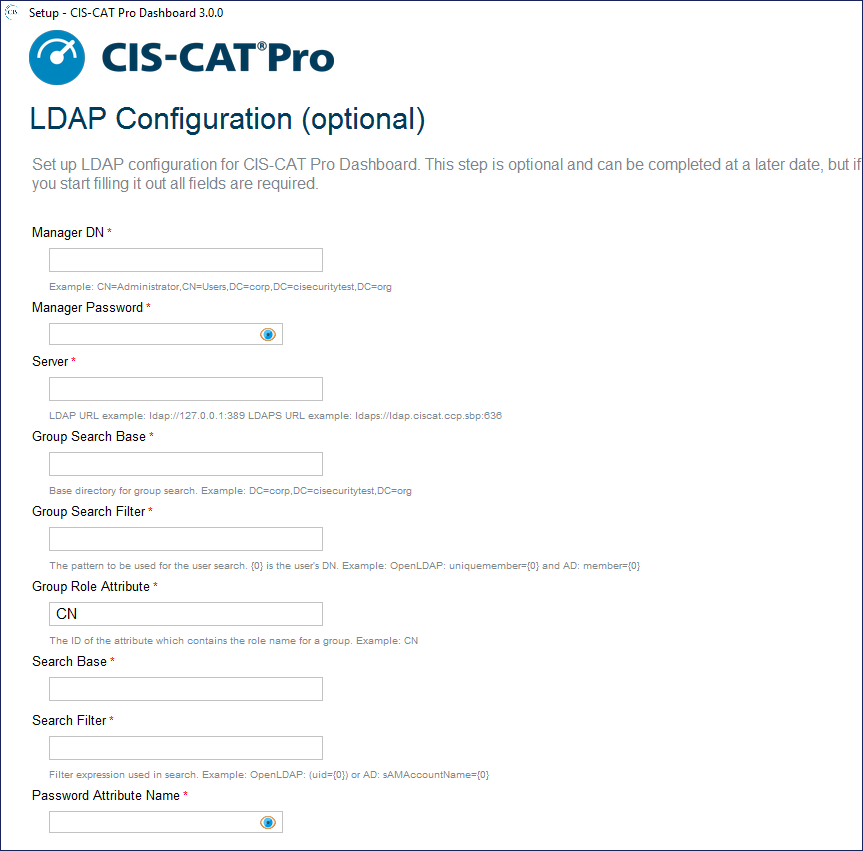
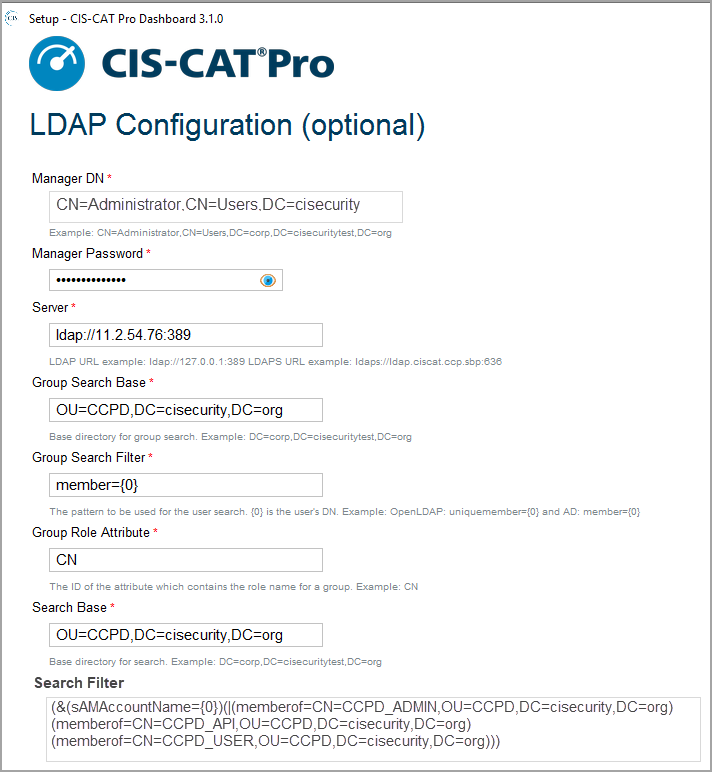
LDAP update

Changed region(s): [[0.0, 0.0, 1.0, 1.0], [0.2781, 0.3731, 0.3399, 0.4041]]

diff --git a/docs/source/Dashboard Deployment Guide for Windows.md b/docs/source/Dashboard Deployment Guide for Windows.md
@@ -126,13 +126,19 @@ CIS-CAT Pro Dashboard utilizes the Grails mail plugin that supports SMTP servers
 <a name="LDAP"></a>
 ** Active Directory - LDAP/S (Custom Option) **
 
-LDAP server structure setup is **REQUIRED** before configuring LDAP in the Dashboard.
+LDAP server structure specifically for CIS-CAT Pro Dashboard is REQUIRED before configuring LDAP in the Dashboard.
 
-LDAP(S) is an optional configuration. If configured, CIS-CAT Pro Dashboard will only authenticate with the active directory users and default CIS-CAT Dashboard users will be disabled. LDAP/Active Directory will be used to manage user authentication and permissions within CCPD. Once LDAP/AD is integrated, the database authentication will be disabled and the "Reset password" button will not be present. 
+LDAP(S) is an optional configuration. If configured, CIS-CAT Pro Dashboard will only authenticate with the active directory users and default CIS-CAT Dashboard users will be disabled. LDAP/Active Directory will be used to manage user authentication and permissions within CCPD. Once LDAP/AD is integrated, the database authentication will be disabled and the "Reset password" button will not be present. Customization of the naming or user utilized is not supported.
 
 LDAP/AD roles and user properties such as firstname, lastname and email will be imported. If the user doesn't exist in CCPD, the username will be created on login and granted with a basic user role (ROLE_USER) by default along with LDAP Roles.
 
+- [Setup LDAP Server Structure](#structure)
+- [Configure LDAP in CIS-CAT Dashboard installation](configure)
+
+<a name="structure"></a>
 **Setup LDAP Structure**
+
+The LDAP Server Structure must be in place before configuring LDAP during the CIS-CAT Pro Dashboard installation.
 
 Deeply nested groups may be incompatible with Dashboard's SpringSecurity plugin.
 
@@ -148,21 +154,27 @@ Deeply nested groups may be incompatible with Dashboard's SpringSecurity plugin.
 	- Email is required and must be a valid value for an email-based AD
 	- Ensure "User must change password on next logon" is NOT selected
 	- Where users were previously created in the CCPD program before the LDAP integration, ensure the username matches with the one in LDAP (uid) or AD (sAMAccountName, also called "User logon name")
-- Assign created users to groups created above
+- Assign existing and created users to created Dashboard groups (CCPD_USER, CCPD_ADMIN, CCPD_API)
 	- `apiuser` assigned to CCPD_API group
 	- `admin` assigned to `CCPD_ADMIN` and `CCPD_USER` group
-	- See [Roles](https://cis-cat-pro-dashboard.readthedocs.io/en/stable/source/Dashboard%20User's%20Guide/#user-management) in the CIS-CAT Pro Dashboard User Guide to determine which group users should be assigned to
-		- All users will have at least `Read` access to the majority of functions of Dashboard
-		- Admin users will be able to access settings and have ability to delete or update select information
+	- Other users to desired roles ([Roles](https://cis-cat-pro-dashboard.readthedocs.io/en/stable/source/Dashboard%20User's%20Guide/#user-management))
 
 ![](img/ActiveDirectory.png)
+
+<a name="configure"></a>
+**Configure LDAP in CIS-CAT Dashboard Installation**
+
+Execute the CIS-CAT Pro Dashboard installer and choose to configure LDAP. If wishing to allow a subset of users access to Dashboard, apply a Search filter. The below example is one way to limit user access to just users who are a member of the newly created CCPD groups. 
+
+Ensure that the desired users have been added as a member of the CCPD_USER or CCPD_ADMIN or CCPD_API groups. 
+
+![](img/Installer_LDAP.png)
 
 **Additional Requirements for LDAPS**
 
 - Certificate added to Dashboard's utilized java truststore
 - Port 636 availability
 
-![](img/Installer_LDAP.png)
 
 **Configuration Parameters**
 
